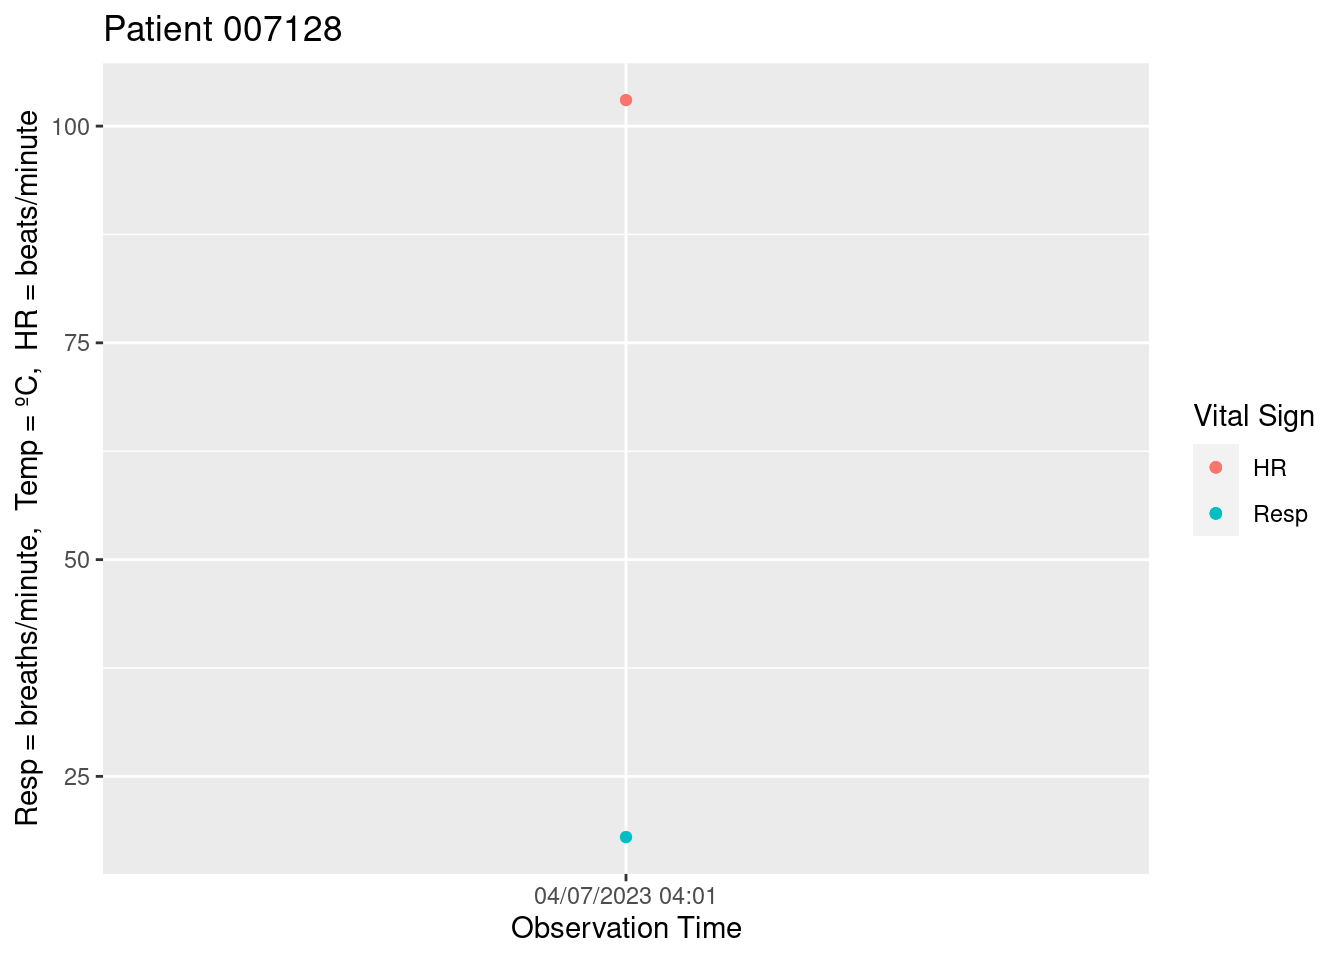
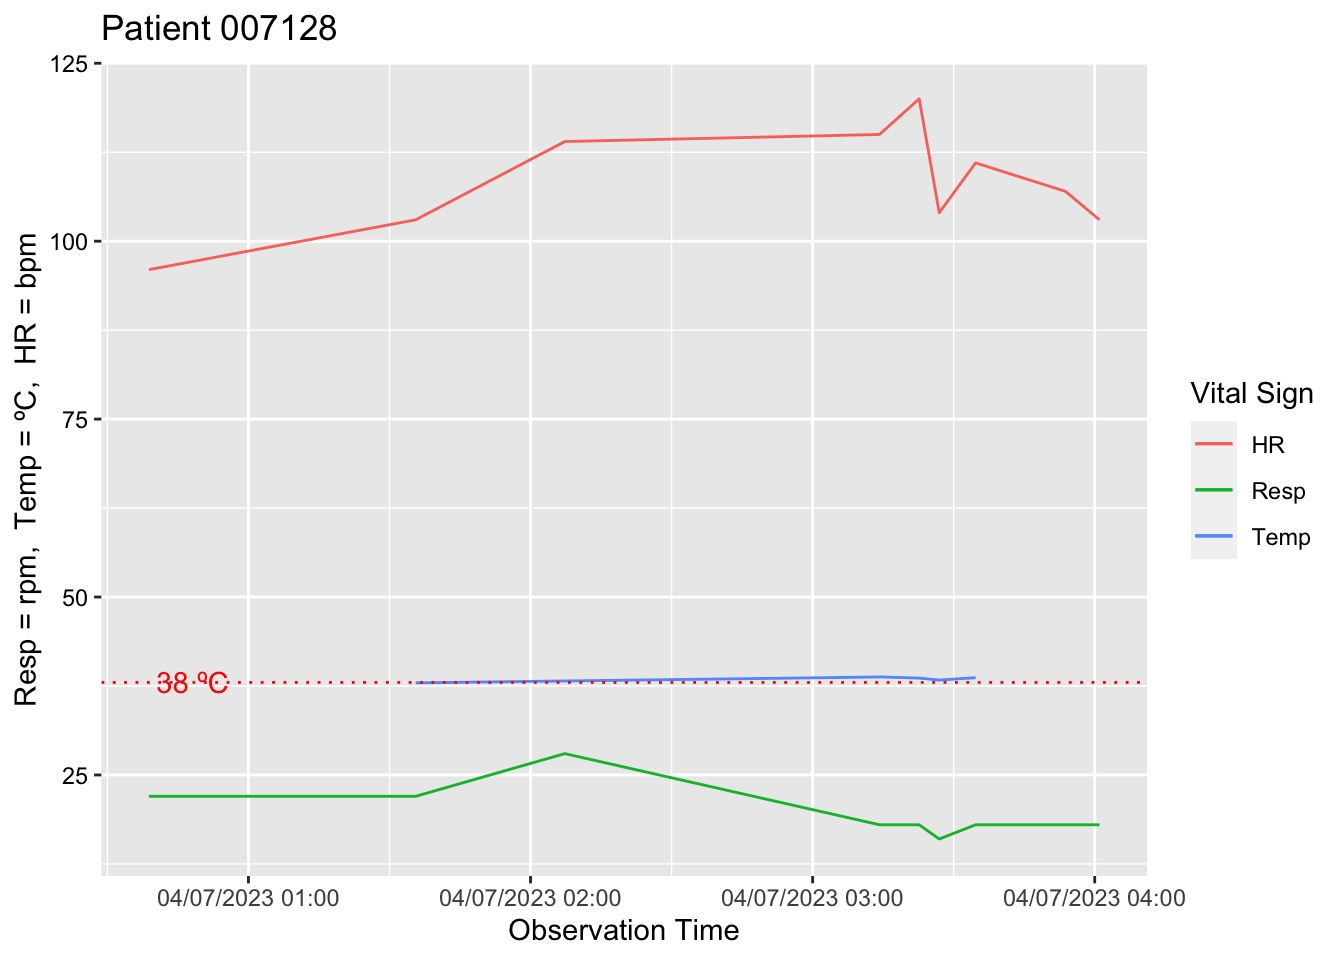
commit change

diff --git a/Assignment-7.html b/Assignment-7.html
@@ -2,7 +2,7 @@
 <html xmlns="http://www.w3.org/1999/xhtml" lang="en" xml:lang="en"><head>
 
 <meta charset="utf-8">
-<meta name="generator" content="quarto-1.2.475">
+<meta name="generator" content="quarto-1.2.335">
 
 <meta name="viewport" content="width=device-width, initial-scale=1.0, user-scalable=yes">
 
@@ -139,8 +139,8 @@ code span.wa { color: #60a0b0; font-weight: bold; font-style: italic; } /* Warni
 
 <section id="assignment-7" class="level1">
 <h1>Assignment 7</h1>
-<section id="date-and-time-2023-04-07-131410" class="level3">
-<h3 class="anchored" data-anchor-id="date-and-time-2023-04-07-131410">Date and Time: 2023-04-07 13:14:10</h3>
+<section id="date-and-time-2023-04-07-091341" class="level3">
+<h3 class="anchored" data-anchor-id="date-and-time-2023-04-07-091341">Date and Time: 2023-04-07 09:13:41</h3>
 <div class="cell">
 <div class="sourceCode cell-code" id="cb1"><pre class="sourceCode r code-with-copy"><code class="sourceCode r"><span id="cb1-1"><a href="#cb1-1" aria-hidden="true" tabindex="-1"></a><span class="fu">source</span>(<span class="st">"sepsis_monitor_functions.R"</span>)</span>
 <span id="cb1-2"><a href="#cb1-2" aria-hidden="true" tabindex="-1"></a></span>
@@ -215,17 +215,22 @@ code span.wa { color: #60a0b0; font-weight: bold; font-style: italic; } /* Warni
 <section id="figure-1-vitals-signs-for-patients-with-sepsis-while-in-the-icu" class="level3">
 <h3 class="anchored" data-anchor-id="figure-1-vitals-signs-for-patients-with-sepsis-while-in-the-icu">Figure 1: Vitals signs for patients with sepsis while in the ICU</h3>
 <div class="cell">
-<div class="sourceCode cell-code" id="cb3"><pre class="sourceCode r code-with-copy"><code class="sourceCode r"><span id="cb3-1"><a href="#cb3-1" aria-hidden="true" tabindex="-1"></a>sepsis_plots <span class="ot">&lt;-</span> <span class="fu">lapply</span>(<span class="fu">unique</span>(sepsis_pts<span class="sc">$</span>PatientID), <span class="cf">function</span>(patient){</span>
-<span id="cb3-2"><a href="#cb3-2" aria-hidden="true" tabindex="-1"></a>  patient_data <span class="ot">&lt;-</span> <span class="fu">subset</span>(sepsis_pts, PatientID <span class="sc">==</span> patient)</span>
-<span id="cb3-3"><a href="#cb3-3" aria-hidden="true" tabindex="-1"></a>  <span class="fu">ggplot</span>(<span class="at">data =</span> patient_data, <span class="fu">aes</span>(<span class="at">x =</span> obsTime)) <span class="sc">+</span></span>
-<span id="cb3-4"><a href="#cb3-4" aria-hidden="true" tabindex="-1"></a>    <span class="fu">geom_point</span>(<span class="at">data =</span> <span class="fu">subset</span>(patient_data, <span class="sc">!</span><span class="fu">is.na</span>(HR)), <span class="fu">aes</span>(<span class="at">y =</span> HR, <span class="at">colour =</span> <span class="st">"HR"</span>)) <span class="sc">+</span></span>
-<span id="cb3-5"><a href="#cb3-5" aria-hidden="true" tabindex="-1"></a>    <span class="fu">geom_point</span>(<span class="at">data =</span> <span class="fu">subset</span>(patient_data, <span class="sc">!</span><span class="fu">is.na</span>(Temp)), <span class="fu">aes</span>(<span class="at">y =</span> Temp, <span class="at">colour =</span> <span class="st">"Temp"</span>)) <span class="sc">+</span></span>
-<span id="cb3-6"><a href="#cb3-6" aria-hidden="true" tabindex="-1"></a>    <span class="fu">geom_point</span>(<span class="at">data =</span> <span class="fu">subset</span>(patient_data, <span class="sc">!</span><span class="fu">is.na</span>(Resp)), <span class="fu">aes</span>(<span class="at">y =</span> Resp, <span class="at">colour =</span> <span class="st">"Resp"</span>)) <span class="sc">+</span></span>
-<span id="cb3-7"><a href="#cb3-7" aria-hidden="true" tabindex="-1"></a>    <span class="fu">labs</span>(<span class="at">x =</span> <span class="st">"Observation Time"</span>, <span class="at">y =</span> <span class="st">"Resp = breaths/minute,  Temp = ºC,  HR = beats/minute"</span>, <span class="at">colour =</span> <span class="st">"Vital Sign"</span>) <span class="sc">+</span></span>
-<span id="cb3-8"><a href="#cb3-8" aria-hidden="true" tabindex="-1"></a>    <span class="fu">scale_x_datetime</span>(<span class="at">date_labels =</span> <span class="st">"%m/%d/%Y %H:%M"</span>) <span class="sc">+</span> </span>
-<span id="cb3-9"><a href="#cb3-9" aria-hidden="true" tabindex="-1"></a>    <span class="fu">ggtitle</span>(<span class="fu">paste</span>(<span class="st">"Patient"</span>, patient))</span>
-<span id="cb3-10"><a href="#cb3-10" aria-hidden="true" tabindex="-1"></a>})</span>
-<span id="cb3-11"><a href="#cb3-11" aria-hidden="true" tabindex="-1"></a>sepsis_plots</span></code><button title="Copy to Clipboard" class="code-copy-button"><i class="bi"></i></button></pre></div>
+<div class="sourceCode cell-code" id="cb3"><pre class="sourceCode r code-with-copy"><code class="sourceCode r"><span id="cb3-1"><a href="#cb3-1" aria-hidden="true" tabindex="-1"></a>sepsis_pts <span class="ot">&lt;-</span> <span class="fu">subset</span>(new_data, SepsisLabel<span class="sc">==</span><span class="dv">1</span>)</span>
+<span id="cb3-2"><a href="#cb3-2" aria-hidden="true" tabindex="-1"></a>sepsis_plots <span class="ot">&lt;-</span> <span class="fu">lapply</span>(<span class="fu">unique</span>(sepsis_pts<span class="sc">$</span>PatientID), <span class="cf">function</span>(patient){</span>
+<span id="cb3-3"><a href="#cb3-3" aria-hidden="true" tabindex="-1"></a>  patient_data <span class="ot">&lt;-</span> <span class="fu">subset</span>(sepsis_pts, PatientID <span class="sc">==</span> patient)</span>
+<span id="cb3-4"><a href="#cb3-4" aria-hidden="true" tabindex="-1"></a>  <span class="fu">ggplot</span>(<span class="at">data =</span> patient_data, <span class="fu">aes</span>(<span class="at">x =</span> obsTime)) <span class="sc">+</span></span>
+<span id="cb3-5"><a href="#cb3-5" aria-hidden="true" tabindex="-1"></a>    <span class="fu">geom_line</span>(<span class="at">data =</span> <span class="fu">subset</span>(patient_data, <span class="sc">!</span><span class="fu">is.na</span>(HR)), <span class="fu">aes</span>(<span class="at">y =</span> HR, <span class="at">colour =</span> <span class="st">"HR"</span>)) <span class="sc">+</span></span>
+<span id="cb3-6"><a href="#cb3-6" aria-hidden="true" tabindex="-1"></a>    <span class="fu">geom_line</span>(<span class="at">data =</span> <span class="fu">subset</span>(patient_data, <span class="sc">!</span><span class="fu">is.na</span>(Temp)), <span class="fu">aes</span>(<span class="at">y =</span> Temp, <span class="at">colour =</span> <span class="st">"Temp"</span>)) <span class="sc">+</span></span>
+<span id="cb3-7"><a href="#cb3-7" aria-hidden="true" tabindex="-1"></a>    <span class="fu">geom_line</span>(<span class="at">data =</span> <span class="fu">subset</span>(patient_data, <span class="sc">!</span><span class="fu">is.na</span>(Resp)), <span class="fu">aes</span>(<span class="at">y =</span> Resp, <span class="at">colour =</span> <span class="st">"Resp"</span>)) <span class="sc">+</span></span>
+<span id="cb3-8"><a href="#cb3-8" aria-hidden="true" tabindex="-1"></a>    <span class="fu">labs</span>(<span class="at">x =</span> <span class="st">"Observation Time"</span>, <span class="at">y =</span> <span class="st">"Resp = rpm,  Temp = ºC,  HR = bpm"</span>, <span class="at">colour =</span> <span class="st">"Vital Sign"</span>) <span class="sc">+</span></span>
+<span id="cb3-9"><a href="#cb3-9" aria-hidden="true" tabindex="-1"></a>    <span class="fu">scale_x_datetime</span>(<span class="at">date_labels =</span> <span class="st">"%m/%d/%Y %H:%M"</span>) <span class="sc">+</span> </span>
+<span id="cb3-10"><a href="#cb3-10" aria-hidden="true" tabindex="-1"></a>    <span class="fu">ggtitle</span>(<span class="fu">paste</span>(<span class="st">"Patient"</span>, patient)) <span class="sc">+</span> </span>
+<span id="cb3-11"><a href="#cb3-11" aria-hidden="true" tabindex="-1"></a>    <span class="fu">geom_hline</span>(<span class="at">yintercept =</span> <span class="dv">38</span>, <span class="at">linetype =</span> <span class="st">"dotted"</span>, <span class="at">color =</span> <span class="st">"red"</span>) <span class="sc">+</span></span>
+<span id="cb3-12"><a href="#cb3-12" aria-hidden="true" tabindex="-1"></a>    <span class="fu">annotate</span>(<span class="st">"text"</span>, <span class="at">x =</span> <span class="fu">min</span>(patient_data<span class="sc">$</span>obsTime), <span class="at">y =</span> <span class="dv">38</span>, <span class="at">label =</span> <span class="st">"38 ºC"</span>, hjust</span>
+<span id="cb3-13"><a href="#cb3-13" aria-hidden="true" tabindex="-1"></a>             <span class="ot">=</span><span class="sc">-</span><span class="fl">0.1</span>, <span class="at">vjust =</span> <span class="fl">0.5</span>, <span class="at">color =</span> <span class="st">"red"</span>) <span class="sc">+</span></span>
+<span id="cb3-14"><a href="#cb3-14" aria-hidden="true" tabindex="-1"></a>    <span class="fu">theme</span>(<span class="at">axis.text.y =</span> <span class="fu">element_text</span>(<span class="at">color =</span> <span class="st">"black"</span>))</span>
+<span id="cb3-15"><a href="#cb3-15" aria-hidden="true" tabindex="-1"></a>  })</span>
+<span id="cb3-16"><a href="#cb3-16" aria-hidden="true" tabindex="-1"></a>sepsis_plots</span></code><button title="Copy to Clipboard" class="code-copy-button"><i class="bi"></i></button></pre></div>
 <div class="cell-output cell-output-stdout">
 <pre><code>[[1]]</code></pre>
 </div>
@@ -326,7 +331,6 @@ Note
 </div>
 <div class="callout-body-container callout-body">
 <p>Note that the most_recent_data file only had a single observation of vitals for patients. Thus in order for the change in vitals to display meaningful data, I switched to the new_data file.</p>
-<p>The plots are also more interesting when looking at new_data vs most_recent_data (and changing to a line instead of point). But I leave it as most_recent_data. The code for this is included in my script.</p>
 </div>
 </div>
 </section>
